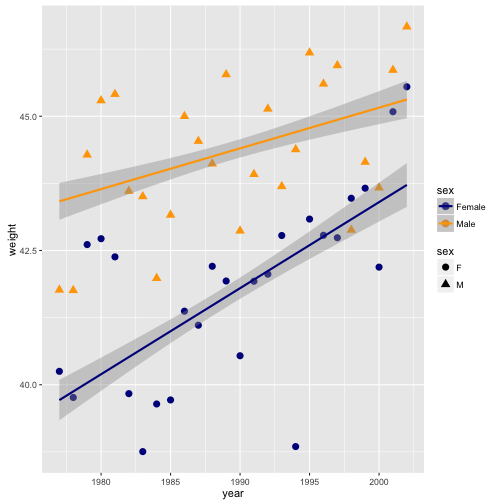
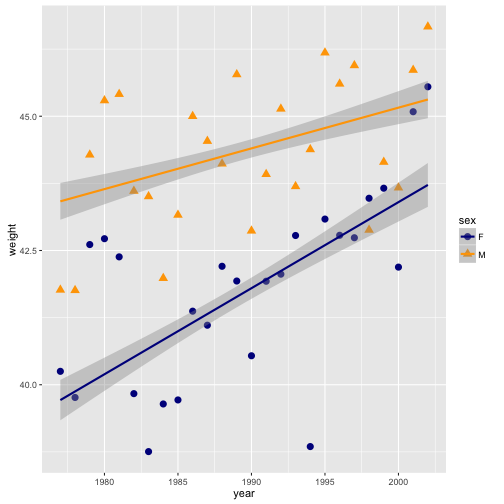
with Ian

diff --git a/index.md b/index.md
@@ -1,9 +1,12 @@
 ---
-style: /1.0.0/css/lesson.css
+layout: default
+style: /css/lesson.css
 ---
 
-# Graphics with ggplot2
+# {{ site.title }}
 {:.no-toc}
+
+Lesson {{ sit.lesson }} with *Ian Carroll*
 
 * TOC
 {:toc}
@@ -21,7 +24,6 @@ library(ggplot2)
 surveys <- read.csv("data/surveys.csv", na.strings = "") %>%
     filter(!is.na(species_id), !is.na(sex), !is.na(weight))
 ~~~
-{:.text-document title='lesson-3.R'}
 
 ## Constructing layered graphics in ggplot
 
@@ -30,9 +32,9 @@ As a first example, this code plots the inviduals' weights by species:
 ~~~r
 ggplot(data = surveys,
        aes(x = species_id, y = weight)) +
-    geom_point()
+  geom_point()
 ~~~
-{:.text-document title='lesson-3.R'}
+{:.text-document title="lesson-5.R"}
 
 ![plot of chunk plot_pt](/graphics-with-ggplot2-lesson/images/plot_pt-1.png)
 
@@ -43,12 +45,12 @@ Multiple geom layers can be combined in a single plot:
 ~~~r
 ggplot(data = surveys,
        aes(x = species_id, y = weight)) +
-    geom_boxplot() +
-    geom_point(stat = "summary",
-               fun.y = "mean",
-               color = "red")
+  geom_boxplot() +
+  geom_point(stat = "summary",
+             fun.y = "mean",
+             color = "red")
 ~~~
-{:.text-document title='lesson-3.R'}
+{:.text-document title="lesson-5.R"}
 
 ![plot of chunk plot_box](/graphics-with-ggplot2-lesson/images/plot_box-1.png)
 
@@ -69,20 +71,21 @@ Using `dplyr` and `ggplot` show how the mean weight of individuals of the specie
 
 ## Adding a regression line
 
-The code below shows one graph answering the question in the exercise. I added a `geom_smooth` layer that displays a regression line with confidence intervals (95% CI by default). The `method = "lm"` parameter specifies that a linear model is used for smoothing.
+The code below shows one graph answering the question in the exercise.
+Adding a `geom_smooth` layer displays a regression line with confidence intervals (95% CI by default). The `method = "lm"` parameter specifies that a linear model is used for smoothing.
 
 
 ~~~r
 surveys_dm <- filter(surveys, species_id == "DM")
 ggplot(data = surveys_dm,
        aes(x = year, y = weight)) + 
-    geom_point(aes(shape = sex),
-               size = 3,
-	       stat = "summary",
-	       fun.y = "mean") +
-    geom_smooth(method = "lm")
+  geom_point(aes(shape = sex),
+             size = 3,
+             stat = "summary",
+             fun.y = "mean") +
+  geom_smooth(method = "lm")
 ~~~
-{:.text-document title='lesson-3.R'}
+{:.text-document title="lesson-5.R"}
 
 ![plot of chunk plot_lm](/graphics-with-ggplot2-lesson/images/plot_lm-1.png)
 
@@ -92,13 +95,13 @@ To get separate regression lines for females and males, we could add a *group* a
 ~~~r
 ggplot(data = surveys_dm,
        aes(x = year, y = weight)) + 
-    geom_point(aes(shape = sex),
-               size = 3,
-	       stat = "summary",
-	       fun.y = "mean") +
-    geom_smooth(aes(group = sex), method = "lm")
+  geom_point(aes(shape = sex),
+             size = 3,
+             stat = "summary",
+             fun.y = "mean") +
+  geom_smooth(aes(group = sex), method = "lm")
 ~~~
-{:.text-document title='lesson-3.R'}
+{:.text-document title="lesson-5.R"}
 
 ![plot of chunk plot_lm_group](/graphics-with-ggplot2-lesson/images/plot_lm_group-1.png)
 
@@ -106,18 +109,17 @@ Even better would be to distinguish the two lines by color:
 
 
 ~~~r
-year_wgt <- ggplot(data = surveys_dm,
-                   aes(x = year,
-		       y = weight,
-		       color = sex)) + 
-    geom_point(aes(shape = sex),
-               size = 3,
-	       stat = "summary",
-	       fun.y = "mean") +
-    geom_smooth(method = "lm")
-year_wgt
+ggplot(data = surveys_dm,
+       aes(x = year,
+           y = weight,
+           color = sex)) + 
+  geom_point(aes(shape = sex),
+             size = 3,
+	     stat = "summary",
+	     fun.y = "mean") +
+  geom_smooth(method = "lm")
 ~~~
-{:.text-document title='lesson-3.R'}
+{:.text-document title="lesson-5.R"}
 
 ![plot of chunk plot_lm_color](/graphics-with-ggplot2-lesson/images/plot_lm_color-1.png)
 
@@ -129,23 +131,34 @@ The output of `ggplot` can be assigned to a variable (here, it's `year_wgt`). It
 
 
 ~~~r
-year_wgt + scale_color_manual(values = c("darkblue", "orange"),
-                              labels = c("Female", "Male"))
+year_wgt <- ggplot(data = surveys_dm,
+                   aes(x = year,
+                   y = weight,
+                   color = sex)) + 
+              geom_point(aes(shape = sex),
+                         size = 3,
+	                 stat = "summary",
+	                 fun.y = "mean") +
+              geom_smooth(method = "lm")
+
+year_wgt +
+  scale_color_manual(values = c("darkblue", "orange"))
 ~~~
-{:.text-document title='lesson-3.R'}
+{:.text-document title="lesson-5.R"}
 
 ![plot of chunk plot_lm_scales](/graphics-with-ggplot2-lesson/images/plot_lm_scales-1.png)
 
 
 ~~~r
-year_wgt + scale_color_manual(values = c("black", "red"),
-                              labels = c("Female", "Male"))
+year_wgt <- year_wgt +
+  scale_color_manual(values = c("black", "red"))
+year_wgt
 ~~~
-{:.text-document title='lesson-3.R'}
+{:.text-document title="lesson-5.R"}
 
 ![plot of chunk plot_lm_scales_2](/graphics-with-ggplot2-lesson/images/plot_lm_scales_2-1.png)
 
-The `labels` parameter sets the names to display in the legend.
+By overwriting the `year_wgt` variable, the stored plot gets updated with the black and red color scale.
 
 ### Exercise 2
 
@@ -164,7 +177,7 @@ histo <- ggplot(data = surveys_dm,
     geom_histogram(binwidth = 3, color = "white")
 histo
 ~~~
-{:.text-document title='lesson-3.R'}
+{:.text-document title="lesson-5.R"}
 
 ![plot of chunk plot_hist](/graphics-with-ggplot2-lesson/images/plot_hist-1.png)
 
@@ -180,7 +193,7 @@ histo <- histo +
                      breaks = c(20, 30, 40, 50, 60))
 histo
 ~~~
-{:.text-document title='lesson-3.R'}
+{:.text-document title="lesson-5.R"}
 
 ![plot of chunk plot_hist_axes](/graphics-with-ggplot2-lesson/images/plot_hist_axes-1.png)
 
@@ -198,7 +211,7 @@ histo <- histo +
         axis.title.x = element_text(size = 13, vjust = 0))
 histo
 ~~~
-{:.text-document title='lesson-3.R'}
+{:.text-document title="lesson-5.R"}
 
 ![plot of chunk plot_hist_themes](/graphics-with-ggplot2-lesson/images/plot_hist_themes-1.png)
 
@@ -222,7 +235,7 @@ ggplot(data = surveys_dm,
        x = "Count",
        y = "Weight (g)")
 ~~~
-{:.text-document title='lesson-3.R'}
+{:.text-document title="lesson-5.R"}
 
 ![plot of chunk plot_facets](/graphics-with-ggplot2-lesson/images/plot_facets-1.png)
 
@@ -240,7 +253,7 @@ ggplot(data = surveys_dm,
        x = "Count",
        y = "Weight (g)")
 ~~~
-{:.text-document title='lesson-3.R'}
+{:.text-document title="lesson-5.R"}
 
 ![plot of chunk plot_facets_2](/graphics-with-ggplot2-lesson/images/plot_facets_2-1.png)
 
@@ -261,7 +274,7 @@ ggplot(data = surveys_dm,
        y = "Weight (g)") +
   guides(fill = FALSE)								 
 ~~~
-{:.text-document title='lesson-3.R'}
+{:.text-document title="lesson-5.R"}
 
 ![plot of chunk plot_facets_3](/graphics-with-ggplot2-lesson/images/plot_facets_3-1.png)
 
@@ -289,7 +302,7 @@ filter(surveys, species_id == "DM") %>%
   ggplot(aes(x = year, y = weight, color = sex)) +
   geom_line(stat = "summary", fun.y = "mean")
 ~~~
-{:.text-document title='lesson-3.R'}
+{:.text-document title="lesson-5.R"}
 
 ![plot of chunk sol1](/graphics-with-ggplot2-lesson/images/sol1-1.png)
 
@@ -303,7 +316,7 @@ filter(surveys, species_id == "DM") %>%
   ggplot(aes(x = weight, fill = sex)) +         
   geom_histogram(binwidth = 1)
 ~~~
-{:.text-document title='lesson-3.R'}
+{:.text-document title="lesson-5.R"}
 
 ![plot of chunk sol2](/graphics-with-ggplot2-lesson/images/sol2-1.png)
 
@@ -321,7 +334,7 @@ filter(surveys, species_id %in% c("DM", "PB")) %>%
        x = "Count",
        y = "Weight (g)")
 ~~~
-{:.text-document title='lesson-3.R'}
+{:.text-document title="lesson-5.R"}
 
 ![plot of chunk sol3](/graphics-with-ggplot2-lesson/images/sol3-1.png)
 
